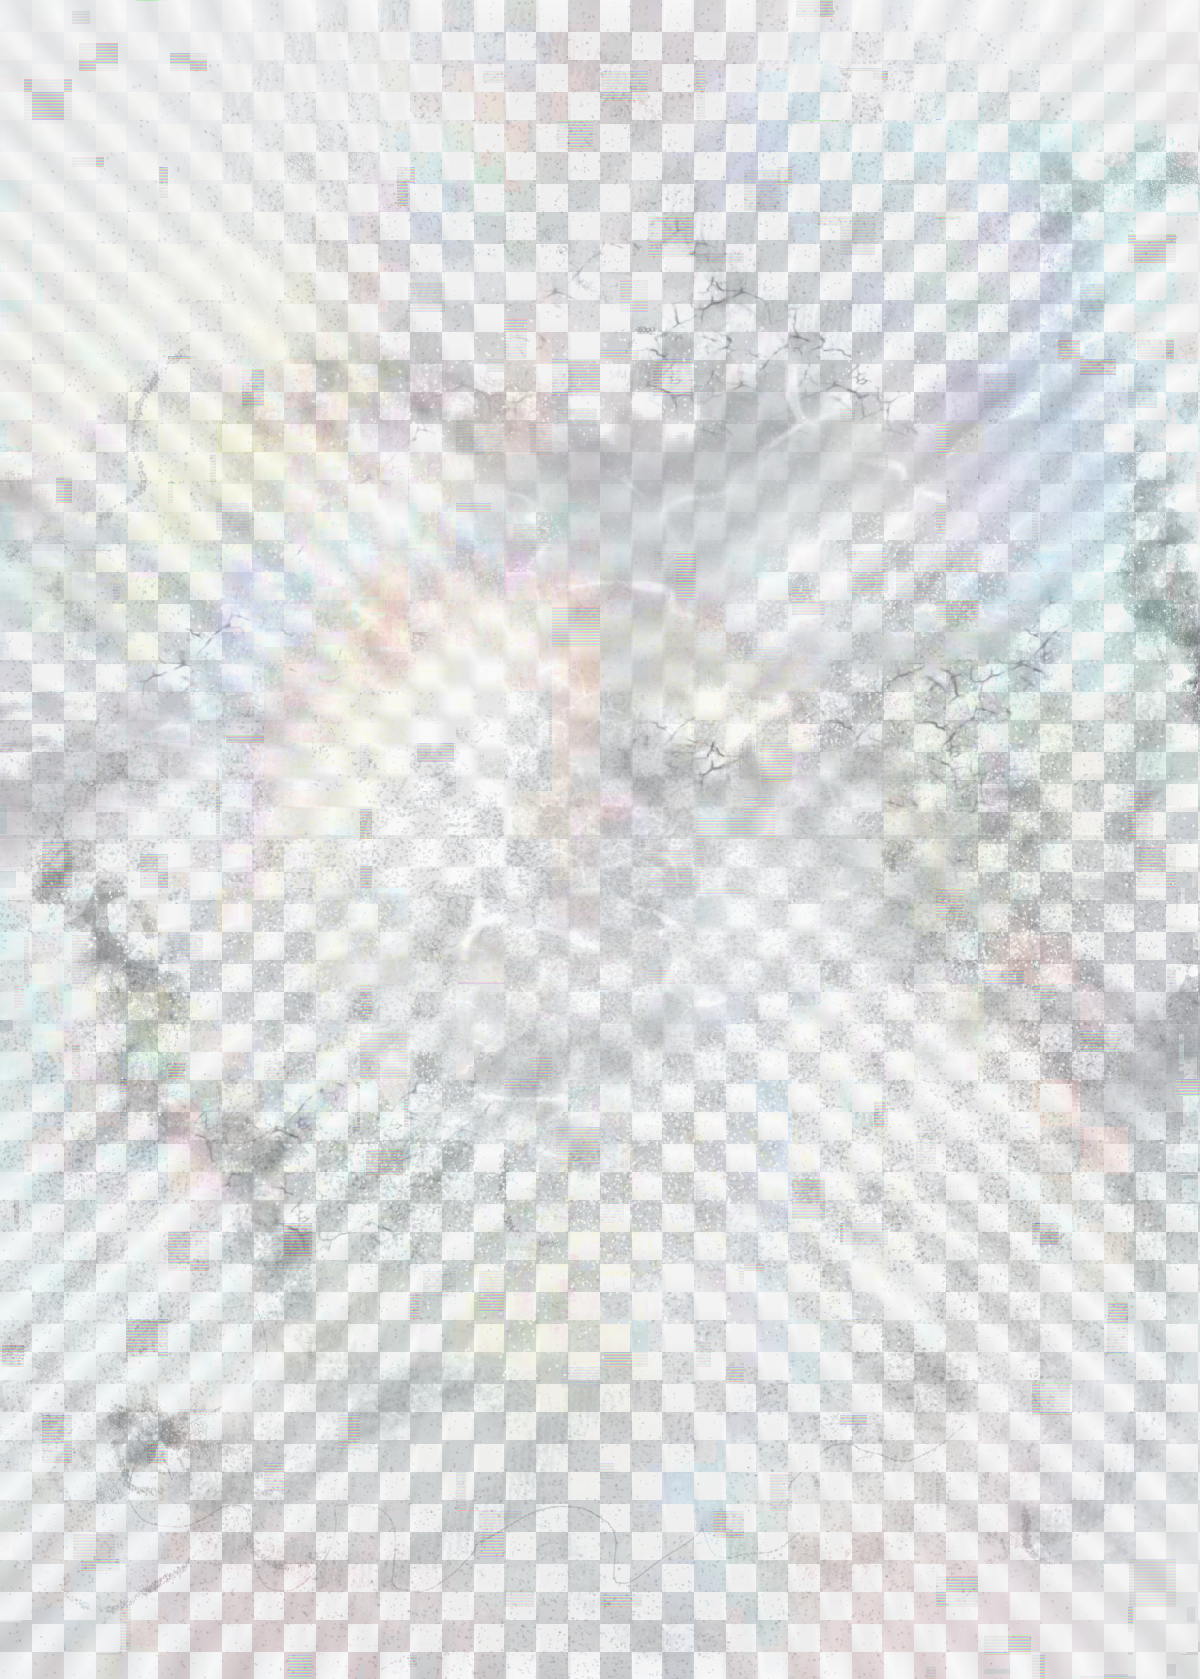
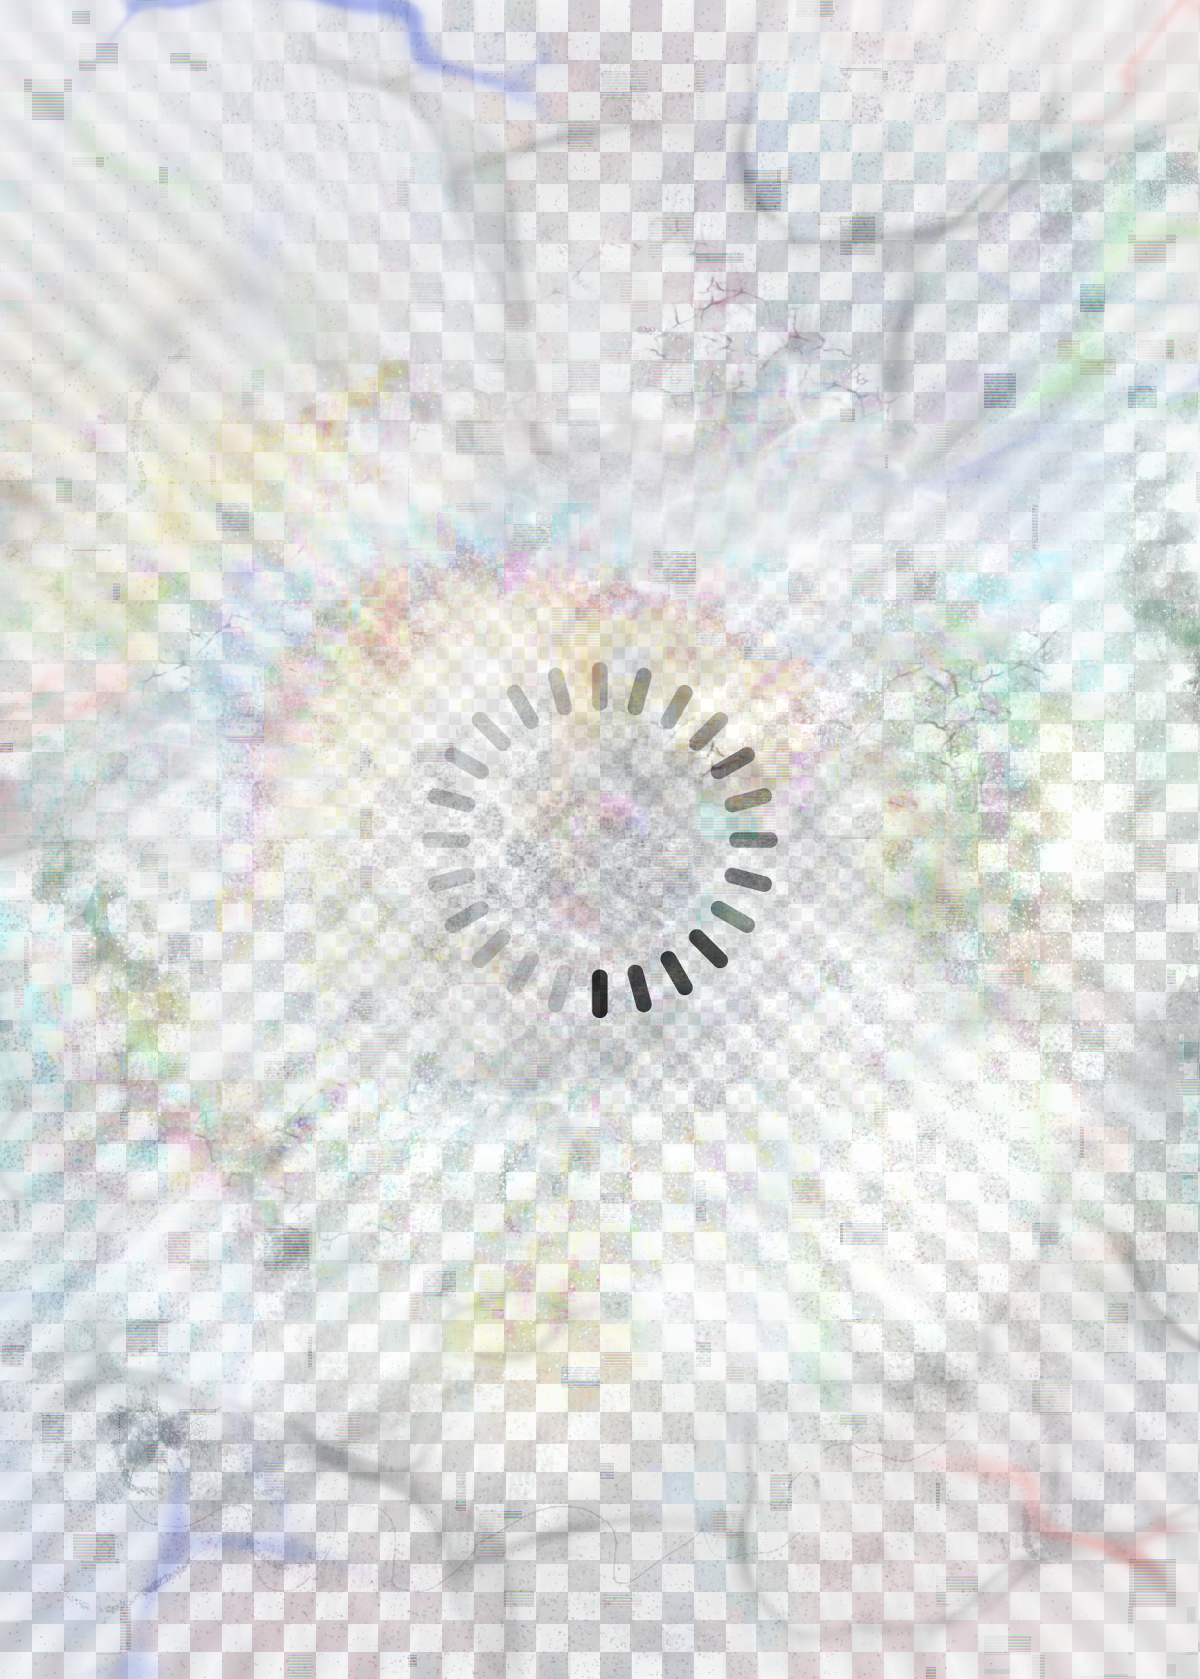
a mimir

diff --git a/src/views/Errar.js b/src/views/Errar.js
@@ -12,42 +12,28 @@ function Errar() {
       <>
         <a-scene background="color: #ECECEC">
           <a-assets>
-            <img id="sky" src={Cielo} alt="cielo"  />
+            <img id="sky" src={Cielo} alt="cielo" />
             <img id="my-texture" src={MaterialBola} alt="material" />
             <img id="fondo" src={Fondo} alt="fondo" />
             <img
-                id="demo"
-                alt="hola"
-                src={prevportal}
-                crossorigin="anonymous"
-                
-              />
+              id="demo"
+              alt="hola"
+              src={prevportal}
+              crossorigin="anonymous"
+            />
           </a-assets>
           <a-camera position="0 2.8 1" rotation="26 50 0" />
           <a-sky src="#sky" rotation=" 0 260  0" opacity="0.9"></a-sky>
-         
-          <a-torus-knot
-           scale="0.26 0.26 0.26"
-            arc="360"
-            p="1"
-            q="16"
-            radius="2"
-            radius-tubular="0.1"
-            position="0 3.44 -4.86395"
-          wireframe="true"
-          opacity="0.1"
-          
-          animation="property: rotation; to: 0 0 360 ; dur: 20000; easing: linear; loop: NaN"
-            
+
+        
+
+          <a-image
+            src="#demo"
+            material="shader: liquid-portal"
+            scale="0.5 0.5"
+            position="-1.3 2.49 -4.1"
           />
-            
-            <a-image
-                src="#demo"
-                material="shader: liquid-portal"
-                scale="0.5 0.5"
-                position="-1.3 2.49 -4.1"
-              />
-          
+
           <a-entity
             light="type:directional; castShadow:true;"
             position="0 8 14"
